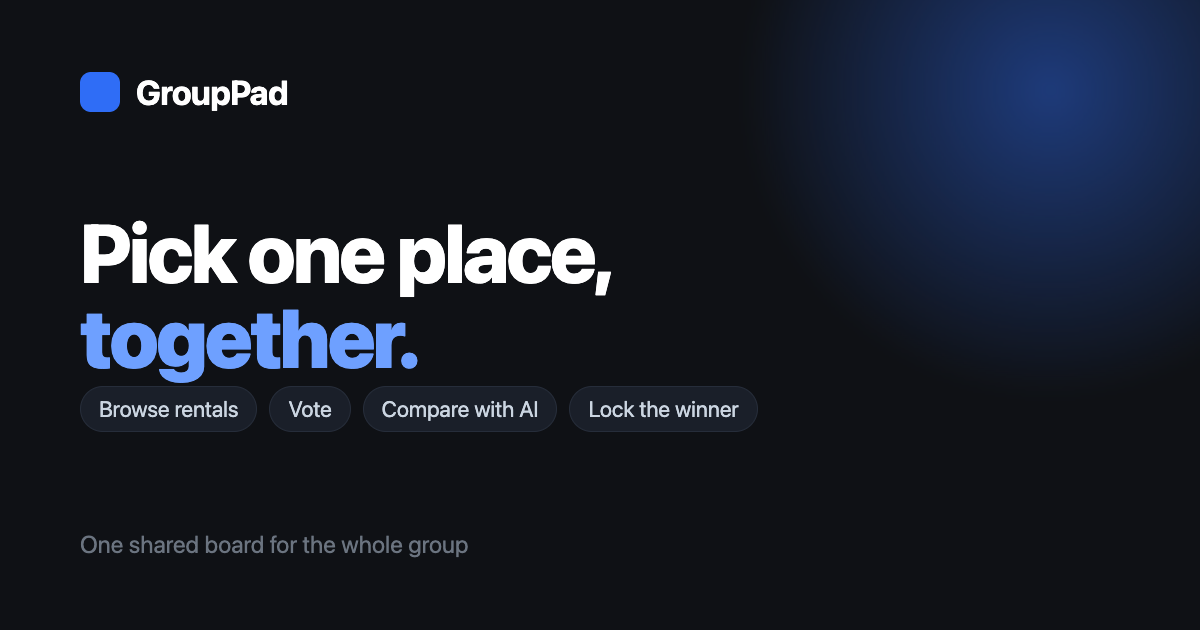
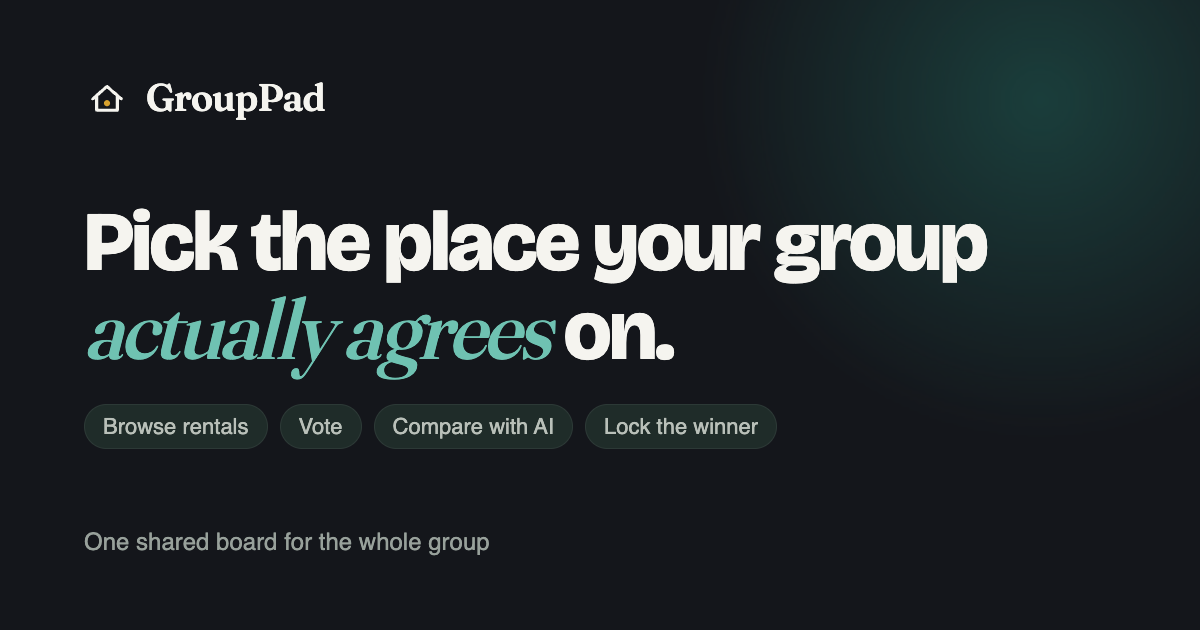
v2: brand mark kit — house mark + Fraunces wordmark
- PeakLogo uses the Figma Brand Mark Kit geometry (currentColor house + gold dot)
  + Fraunces wordmark (SOFT 0, WONK 1); --font-brand token + Tailwind font-brand
- Load Fraunces; regenerate og.png on-brand (warm charcoal, house mark, Fraunces)

Changed region(s): [[0.0617, 0.0, 1.0, 0.7238], [0.0617, 0.0905, 0.2775, 0.181], [0.0617, 0.8444, 0.4008, 0.9048]]

diff --git a/client/src/components/ui/PeakLogo.tsx b/client/src/components/ui/PeakLogo.tsx
@@ -1,9 +1,9 @@
 import { cn } from '@/lib/cn';
 
 /**
- * The Peak brand mark — a roof/house glyph with the gold "decision" dot.
- * The outline inherits `currentColor`; the dot is always the gold signal.
- * `withWord` appends the GroupPad wordmark in the display face.
+ * The GroupPad brand mark (from the Figma Brand Mark Kit) — a rounded house with
+ * the gold "decision" dot. Outline inherits `currentColor` (adapts to theme); the
+ * dot is always the gold signal. `withWord` appends the Fraunces wordmark.
  */
 export function PeakLogo({
   size = 22,
@@ -15,25 +15,26 @@ export function PeakLogo({
   className?: string;
 }) {
   return (
-    <span className={cn('inline-flex items-center gap-2', className)}>
+    <span className={cn('inline-flex items-center gap-2.5', className)}>
       <svg
         width={size}
         height={size}
-        viewBox="0 0 24 24"
+        viewBox="0 0 360 360"
         fill="none"
-        stroke="currentColor"
-        strokeWidth={1.85}
-        strokeLinecap="round"
-        strokeLinejoin="round"
         aria-hidden
         className="shrink-0"
       >
-        <path d="M4.5 12.5 L12 6 L19.5 12.5" />
-        <path d="M6.6 11 V18.4 H17.4 V11" />
-        <circle cx="12" cy="14.7" r="1.6" fill="var(--gold-dot)" stroke="none" />
+        <path d="M67.5 187.5 L180 90 L292.5 187.5" stroke="currentColor" strokeWidth={24} strokeLinecap="round" strokeLinejoin="round" />
+        <path d="M99 165 V276 H261 V165" stroke="currentColor" strokeWidth={24} strokeLinecap="round" strokeLinejoin="round" />
+        <circle cx="180" cy="220.5" r="24" fill="var(--gold-dot)" />
       </svg>
       {withWord && (
-        <span className="font-display text-[15px] font-bold tracking-tight text-text">GroupPad</span>
+        <span
+          className="font-brand text-[19px] font-semibold leading-none tracking-[-0.02em] text-text"
+          style={{ fontVariationSettings: '"SOFT" 0, "WONK" 1' }}
+        >
+          GroupPad
+        </span>
       )}
     </span>
   );

diff --git a/client/index.html b/client/index.html
@@ -28,7 +28,7 @@
     <link rel="preconnect" href="https://fonts.googleapis.com" />
     <link rel="preconnect" href="https://fonts.gstatic.com" crossorigin />
     <link
-      href="https://fonts.googleapis.com/css2?family=Bricolage+Grotesque:opsz,wght@12..96,400..800&family=Hanken+Grotesk:wght@400;500;600;700&display=swap"
+      href="https://fonts.googleapis.com/css2?family=Bricolage+Grotesque:opsz,wght@12..96,400..800&family=Fraunces:opsz,wght@9..144,400..700&family=Hanken+Grotesk:wght@400;500;600;700&display=swap"
       rel="stylesheet"
     />
 

diff --git a/client/src/ds2/tokens.css b/client/src/ds2/tokens.css
@@ -93,6 +93,7 @@
   /* Type */
   --font-display: 'Bricolage Grotesque', ui-sans-serif, system-ui, sans-serif;
   --font-sans:    'Hanken Grotesk', ui-sans-serif, system-ui, sans-serif;
+  --font-brand:   'Fraunces', ui-serif, Georgia, 'Times New Roman', serif;
   --font-mono:    ui-monospace, 'SFMono-Regular', Menlo, Consolas, monospace;
   --text-xs: 12px; --text-sm: 13px; --text-base: 14px; --text-md: 16px;
   --text-lg: 20px; --text-xl: 24px; --text-2xl: 32px; --text-3xl: 40px; --text-4xl: 56px;

diff --git a/client/tailwind.config.js b/client/tailwind.config.js
@@ -61,6 +61,7 @@ export default {
       fontFamily: {
         display: ['Bricolage Grotesque', 'ui-sans-serif', 'system-ui', 'sans-serif'],
         sans: ['Hanken Grotesk', 'ui-sans-serif', 'system-ui', 'sans-serif'],
+        brand: ['Fraunces', 'ui-serif', 'Georgia', 'serif'],
         mono: ['ui-monospace', 'SFMono-Regular', 'Menlo', 'Consolas', 'monospace'],
       },
       borderRadius: {
